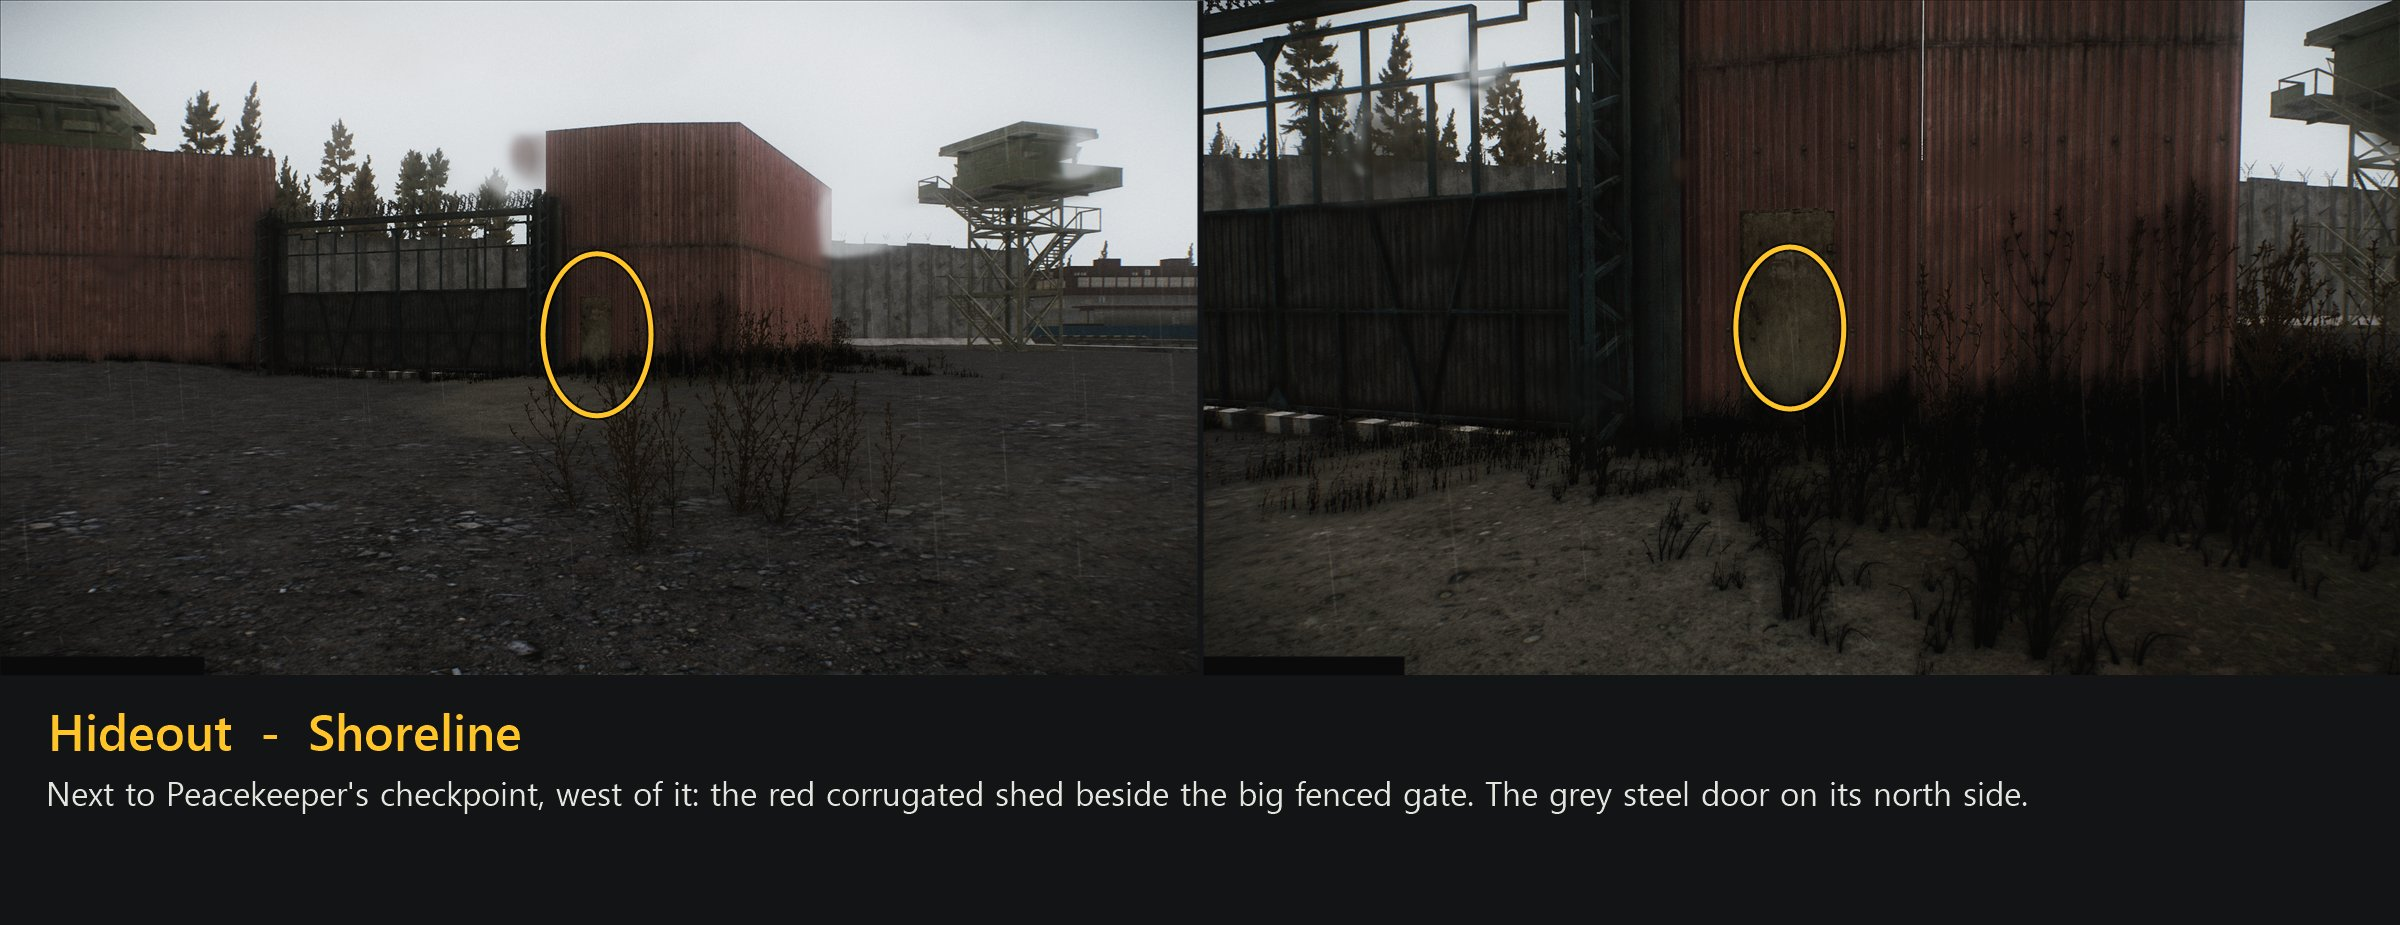
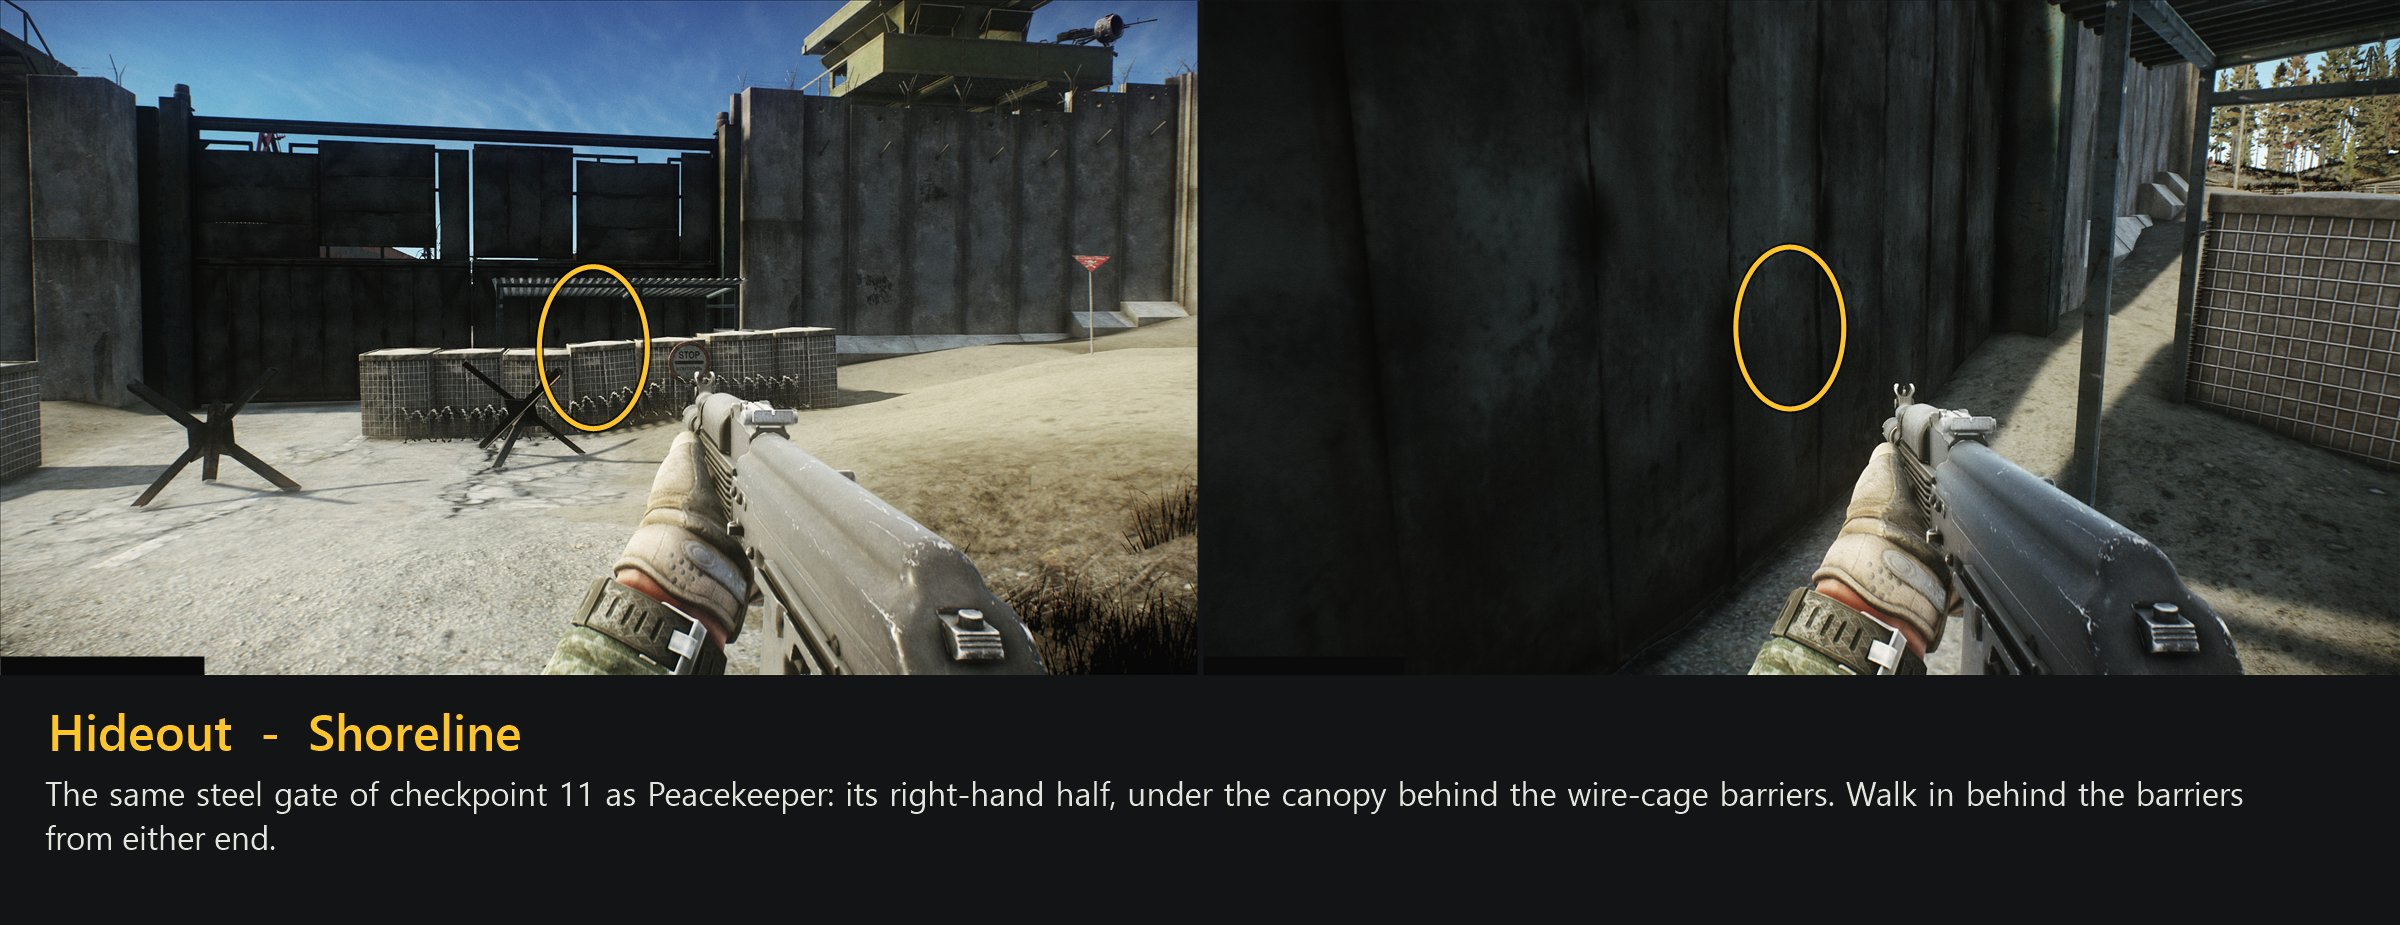
Fall guard no longer fires in water; Shoreline hideout door moved to the checkpoint gate (Forge issues 30, 31)
The fall guard measured from above the feet and took the surface of water one wades in for nothing underfoot, so standing in Factory's flooded tunnel got the player teleported. A second rescue now prefers the floor under the last spot to the roof above it.

The Shoreline hideout door stood behind the checkpoint wall and the map border and could not be walked to. It is now the east half of the checkpoint 11 gate, next to Peacekeeper.

Harness: findobj, rays, touch, reach.

diff --git a/ZeroMenuTime/TestHarness.cs b/ZeroMenuTime/TestHarness.cs
@@ -1669,6 +1669,147 @@ namespace ZeroMenuTime
                     Report("asked " + parts[1] + " (" + who + ") to speak");
                     break;
                 }
+                case "findobj":
+                {
+                    // findobj WORD [LIMIT]: scene objects whose name contains the word, with where they are and their collider.
+                    string word = parts.Length > 1 ? parts[1].ToLowerInvariant() : "water";
+                    int limit = parts.Length > 2 ? (int)Number(parts[2]) : 25, shown = 0;
+                    foreach (var t in UnityEngine.Object.FindObjectsOfType<Transform>())
+                    {
+                        if (t.name.ToLowerInvariant().IndexOf(word, StringComparison.Ordinal) < 0
+                            || (parts.Length > 3 && Vector3.Distance(t.position, player.Transform.position) > Number(parts[3]))
+                            || (parts.Length > 3 && t.GetComponent<Renderer>() == null))
+                        {
+                            continue;
+                        }
+                        var c = t.GetComponent<Collider>();
+                        var r = t.GetComponent<Renderer>();
+                        if (++shown <= limit)
+                        {
+                            Report("  " + Vector3.Distance(t.position, player.Transform.position).ToString("F0") + " m " + t.name + " at " + t.position.ToString("F1") + " turned " + t.eulerAngles.y.ToString("F0") + " layer " + LayerMask.LayerToName(t.gameObject.layer)
+                                   + (c != null ? " collider " + c.GetType().Name + (c.isTrigger ? " (trigger)" : "") + " bounds " + c.bounds.center.ToString("F1") + " size " + c.bounds.size.ToString("F1") : "")
+                                   + (r != null ? " drawn bounds " + r.bounds.center.ToString("F1") + " size " + r.bounds.size.ToString("F1") : ""));
+                        }
+                    }
+                    Report(shown + " object(s) named like " + word);
+                    break;
+                }
+                case "rays":
+                {
+                    // rays [X Y Z]: everything a line straight down meets, from 2 m above to 160 m below, any layer.
+                    var from = parts.Length > 3 ? new Vector3(Number(parts[1]), Number(parts[2]), Number(parts[3])) : player.Transform.position;
+                    var hits = Physics.RaycastAll(from + Vector3.up * 2f, Vector3.down, 162f, ~0, QueryTriggerInteraction.Collide);
+                    Array.Sort(hits, (a, b) => a.distance.CompareTo(b.distance));
+                    foreach (var h in hits)
+                    {
+                        Report("  " + (h.distance - 2f).ToString("F2") + " m below: " + h.collider.name + " layer " + LayerMask.LayerToName(h.collider.gameObject.layer)
+                               + " " + h.collider.GetType().Name + (h.collider.isTrigger ? " (trigger)" : ""));
+                    }
+                    Report(hits.Length + " thing(s) under " + from.ToString("F1") + "; fall guard sees " + FallGuard.Below(from).ToString("F1"));
+                    break;
+                }
+                case "reach":
+                {
+                    // reach X Y Z [MARGIN] [STEP] [FROMX FROMY FROMZ]: can someone on foot get from here to that point?
+                    // Draws the ground between as a chart: # blocked, . open but not reached, + reached, S start, D goal.
+                    var goal = new Vector3(Number(parts[1]), Number(parts[2]), Number(parts[3]));
+                    float margin = parts.Length > 4 && parts[4] != "open" ? Number(parts[4]) : 15f, step = parts.Length > 5 && parts[5] != "open" ? Number(parts[5]) : 1f;
+                    var start = parts.Length > 8 ? new Vector3(Number(parts[6]), Number(parts[7]), Number(parts[8])) : player.Transform.position;
+                    int body = 0, me = LayerMask.NameToLayer("Player");
+                    for (int layer = 0; layer < 32; layer++)
+                    {
+                        if (!Physics.GetIgnoreLayerCollision(me, layer) && layer != me && LayerMask.LayerToName(layer) != "PlayerCollisionTest"
+                            && LayerMask.LayerToName(layer) != "HitCollider" && LayerMask.LayerToName(layer) != "PlayerSpiritAura")
+                        {
+                            body |= 1 << layer;
+                        }
+                    }
+                    if (parts[parts.Length - 1] == "open")
+                    {
+                        // As if the map's border walls were not there.
+                        body &= ~LayerMask.GetMask("LevelBorder");
+                    }
+                    float x0 = Mathf.Min(start.x, goal.x) - margin, x1 = Mathf.Max(start.x, goal.x) + margin;
+                    float z0 = Mathf.Min(start.z, goal.z) - margin, z1 = Mathf.Max(start.z, goal.z) + margin;
+                    int w = Mathf.CeilToInt((x1 - x0) / step) + 1, h = Mathf.CeilToInt((z1 - z0) / step) + 1;
+                    var height = new float[w, h];
+                    var open = new bool[w, h];
+                    var seen = new bool[w, h];
+                    float top = Mathf.Max(start.y, goal.y) + 2.2f;
+                    for (int i = 0; i < w; i++)
+                    {
+                        for (int j = 0; j < h; j++)
+                        {
+                            var p = new Vector3(x0 + i * step, top, z0 + j * step);
+                            RaycastHit hit;
+                            if (!Physics.Raycast(p, Vector3.down, out hit, 12f, body, QueryTriggerInteraction.Ignore))
+                            {
+                                height[i, j] = float.NaN;
+                                continue;
+                            }
+                            height[i, j] = hit.point.y;
+                            open[i, j] = !Physics.CheckCapsule(hit.point + Vector3.up * 0.75f, hit.point + Vector3.up * 1.5f, 0.3f, body, QueryTriggerInteraction.Ignore);
+                        }
+                    }
+                    int si = Mathf.RoundToInt((start.x - x0) / step), sj = Mathf.RoundToInt((start.z - z0) / step);
+                    int gi = Mathf.RoundToInt((goal.x - x0) / step), gj = Mathf.RoundToInt((goal.z - z0) / step);
+                    var queue = new Queue<int>();
+                    open[si, sj] = true;
+                    seen[si, sj] = true;
+                    queue.Enqueue(si * 100000 + sj);
+                    while (queue.Count > 0)
+                    {
+                        int at = queue.Dequeue(), ai = at / 100000, aj = at % 100000;
+                        for (int d = 0; d < 4; d++)
+                        {
+                            int ni = ai + (d == 0 ? 1 : d == 1 ? -1 : 0), nj = aj + (d == 2 ? 1 : d == 3 ? -1 : 0);
+                            if (ni < 0 || nj < 0 || ni >= w || nj >= h || seen[ni, nj] || !open[ni, nj]
+                                || float.IsNaN(height[ai, aj]) || Mathf.Abs(height[ni, nj] - height[ai, aj]) > 0.55f * step)
+                            {
+                                continue;
+                            }
+                            seen[ni, nj] = true;
+                            queue.Enqueue(ni * 100000 + nj);
+                        }
+                    }
+                    bool got = false;
+                    for (int i = Mathf.Max(0, gi - 2); i <= Mathf.Min(w - 1, gi + 2); i++)
+                    {
+                        for (int j = Mathf.Max(0, gj - 2); j <= Mathf.Min(h - 1, gj + 2); j++)
+                        {
+                            got |= seen[i, j];
+                        }
+                    }
+                    Report("chart: west is left, north is up; x " + x0.ToString("F0") + " to " + x1.ToString("F0") + ", z " + z1.ToString("F0") + " down to " + z0.ToString("F0") + ", " + step + " m a square");
+                    for (int j = h - 1; j >= 0; j--)
+                    {
+                        var row = new System.Text.StringBuilder();
+                        for (int i = 0; i < w; i++)
+                        {
+                            row.Append(i == si && j == sj ? 'S' : i == gi && j == gj ? 'D' : seen[i, j] ? '+' : float.IsNaN(height[i, j]) ? ' ' : open[i, j] ? '.' : '#');
+                        }
+                        Report("  |" + row + "|");
+                    }
+                    Report(got ? "PASS the goal can be reached on foot" : "FAILED no way on foot to the goal");
+                    break;
+                }
+                case "touch":
+                {
+                    // touch X Y Z [R]: every collider reaching into a ball around a point, any layer.
+                    var mid = new Vector3(Number(parts[1]), Number(parts[2]), Number(parts[3]));
+                    foreach (var c in Physics.OverlapSphere(mid, parts.Length > 4 ? Number(parts[4]) : 0.5f, ~0, QueryTriggerInteraction.Collide))
+                    {
+                        string path = c.name;
+                        for (var up = c.transform.parent; up != null; up = up.parent)
+                        {
+                            path = up.name + "/" + path;
+                        }
+                        Report("  " + path + " layer " + LayerMask.LayerToName(c.gameObject.layer) + " " + c.GetType().Name + (c.isTrigger ? " (trigger)" : "")
+                               + " bounds " + c.bounds.center.ToString("F1") + " size " + c.bounds.size.ToString("F1") + " turned " + c.transform.eulerAngles.ToString("F0"));
+                    }
+                    Report("touched at " + mid.ToString("F1"));
+                    break;
+                }
                 case "where":
                 {
                     // where X Y Z: where that point is on the screen now, as fractions from the top left.

diff --git a/ZeroMenuTime/FallGuard.cs b/ZeroMenuTime/FallGuard.cs
@@ -33,7 +33,10 @@ namespace ZeroMenuTime
                 _notMe = ~LayerMask.GetMask("Player", "PlayerCollisionTest", "PlayerSpiritAura", "HitCollider", "Triggers", "Ignore Raycast", "Interactive", "Loot", "Shells", "Grass", "Foliage");
             }
             RaycastHit hit;
-            return Physics.Raycast(at + Vector3.up * 1.0f, Vector3.down, out hit, 151f, _notMe, QueryTriggerInteraction.Ignore) ? hit.distance - 1.0f : -1f;
+            // The look starts above the feet, so that a floor the feet have sunk into still counts. Anything met
+            // on the way down to the feet (the surface of water one wades in, a step, a sill) is something
+            // underfoot too: never less than nought, which only "nothing at all" may be.
+            return Physics.Raycast(at + Vector3.up * 1.0f, Vector3.down, out hit, 151f, _notMe, QueryTriggerInteraction.Ignore) ? Mathf.Max(0f, hit.distance - 1.0f) : -1f;
         }
 
         /// <summary>Called every frame.</summary>
@@ -134,11 +137,15 @@ namespace ZeroMenuTime
             }
             Vector3 to = from + Vector3.up * 0.3f;
             RaycastHit ground;
-            if ((again || !_hasSafe)
-                && Physics.Raycast(new Vector3(from.x, 1500f, from.z), Vector3.down, out ground, 3000f, _solid, QueryTriggerInteraction.Ignore))
+            if (again || !_hasSafe)
             {
-                // Nowhere known to be solid: the highest ground straight above or below.
-                to = ground.point + Vector3.up * 0.3f;
+                // Nowhere known to be solid. The nearest floor under where they stood comes first, which
+                // keeps someone inside a building inside it; failing that, the highest ground above or below.
+                if (Physics.Raycast(from + Vector3.up * 1.5f, Vector3.down, out ground, 60f, _solid, QueryTriggerInteraction.Ignore)
+                    || Physics.Raycast(new Vector3(from.x, 1500f, from.z), Vector3.down, out ground, 3000f, _solid, QueryTriggerInteraction.Ignore))
+                {
+                    to = ground.point + Vector3.up * 0.3f;
+                }
             }
             player.Teleport(to, false);
             NotificationManager.DisplayWarningNotification("You fell out of the world and were put back.", ENotificationDurationType.Long);

diff --git a/ZeroMenuTime/HideoutDoors.cs b/ZeroMenuTime/HideoutDoors.cs
@@ -66,8 +66,9 @@ namespace ZeroMenuTime
                 new HideoutSpot { Id = "streets", Map = "TarkovStreets", Position = new[] { -15.30f, 3.00f, -108.65f }, RotationY = 0f },
                 // The door of one of the metal cabins north of Skier.
                 new HideoutSpot { Id = "customs", Map = "bigmap", Position = new[] { 622.70f, -2.67f, -126.40f }, RotationY = 101f, AtFeet = true },
-                // A grey steel door in a red corrugated shed, west of Peacekeeper.
-                new HideoutSpot { Id = "shoreline", Map = "Shoreline", Position = new[] { -1005.70f, -60.15f, 391.60f }, RotationY = 0f },
+                // The big gate of checkpoint 11: its east half, a few steps from Peacekeeper's door in the west half.
+                // (The shed behind the gate, used before, stands beyond the checkpoint wall and cannot be walked to.)
+                new HideoutSpot { Id = "shoreline", Map = "Shoreline", Position = new[] { -963.37f, -59.60f, 380.60f }, RotationY = 162f },
             };
         }
 

diff --git a/docs/forge-description.md b/docs/forge-description.md
@@ -68,7 +68,7 @@ Every door is one of the map's own doors. With **[Dynamic Maps](https://sp-mod.c
 | Mechanic | Factory | Basement, by the caged electrical room: the door in the corridor wall |
 | Therapist | Ground Zero | TerraGroup building by the Science Offices, 2nd floor, end of the corridor, next to the big 2 |
 | Peacekeeper | Shoreline | The gate of checkpoint 11, at the west end of the map |
-| Hideout | Shoreline | The red shed next to checkpoint 11, the steel door on its north side |
+| Hideout | Shoreline | The gate of checkpoint 11 again: its right-hand half, under the canopy behind the barriers |
 | Fence | Lighthouse | The drug lab: the shipping container doors behind the plant tables |
 
 **Skier, Customs.** The trailer door just north of the Crackhouse, between the Crackhouse and the Repair Shop.
@@ -111,7 +111,7 @@ Every door is one of the map's own doors. With **[Dynamic Maps](https://sp-mod.c
 
 ![Peacekeeper, Shoreline](https://raw.githubusercontent.com/r2rka1/ZeroMenuTime/main/docs/doors/10-peacekeeper-shoreline.jpg)
 
-**Hideout, Shoreline.** The red shed next to checkpoint 11, the steel door on its north side.
+**Hideout, Shoreline.** The gate of checkpoint 11 again: its right-hand half, under the canopy behind the barriers.
 
 ![Hideout, Shoreline](https://raw.githubusercontent.com/r2rka1/ZeroMenuTime/main/docs/doors/11-hideout-shoreline.jpg)
 

diff --git a/README.md b/README.md
@@ -85,7 +85,7 @@ Every door is one of the map's own doors. With [Dynamic Maps](https://sp-mod.com
 | Mechanic | Factory | Basement, by the caged electrical room: the door in the corridor wall |
 | Therapist | Ground Zero | TerraGroup building by the Science Offices, 2nd floor, end of the corridor, next to the big 2 |
 | Peacekeeper | Shoreline | The gate of checkpoint 11, at the west end of the map |
-| Hideout | Shoreline | The red shed next to checkpoint 11, the steel door on its north side |
+| Hideout | Shoreline | The gate of checkpoint 11 again: its right-hand half, under the canopy behind the barriers |
 | Fence | Lighthouse | The drug lab: the shipping container doors behind the plant tables |
 
 <details>
